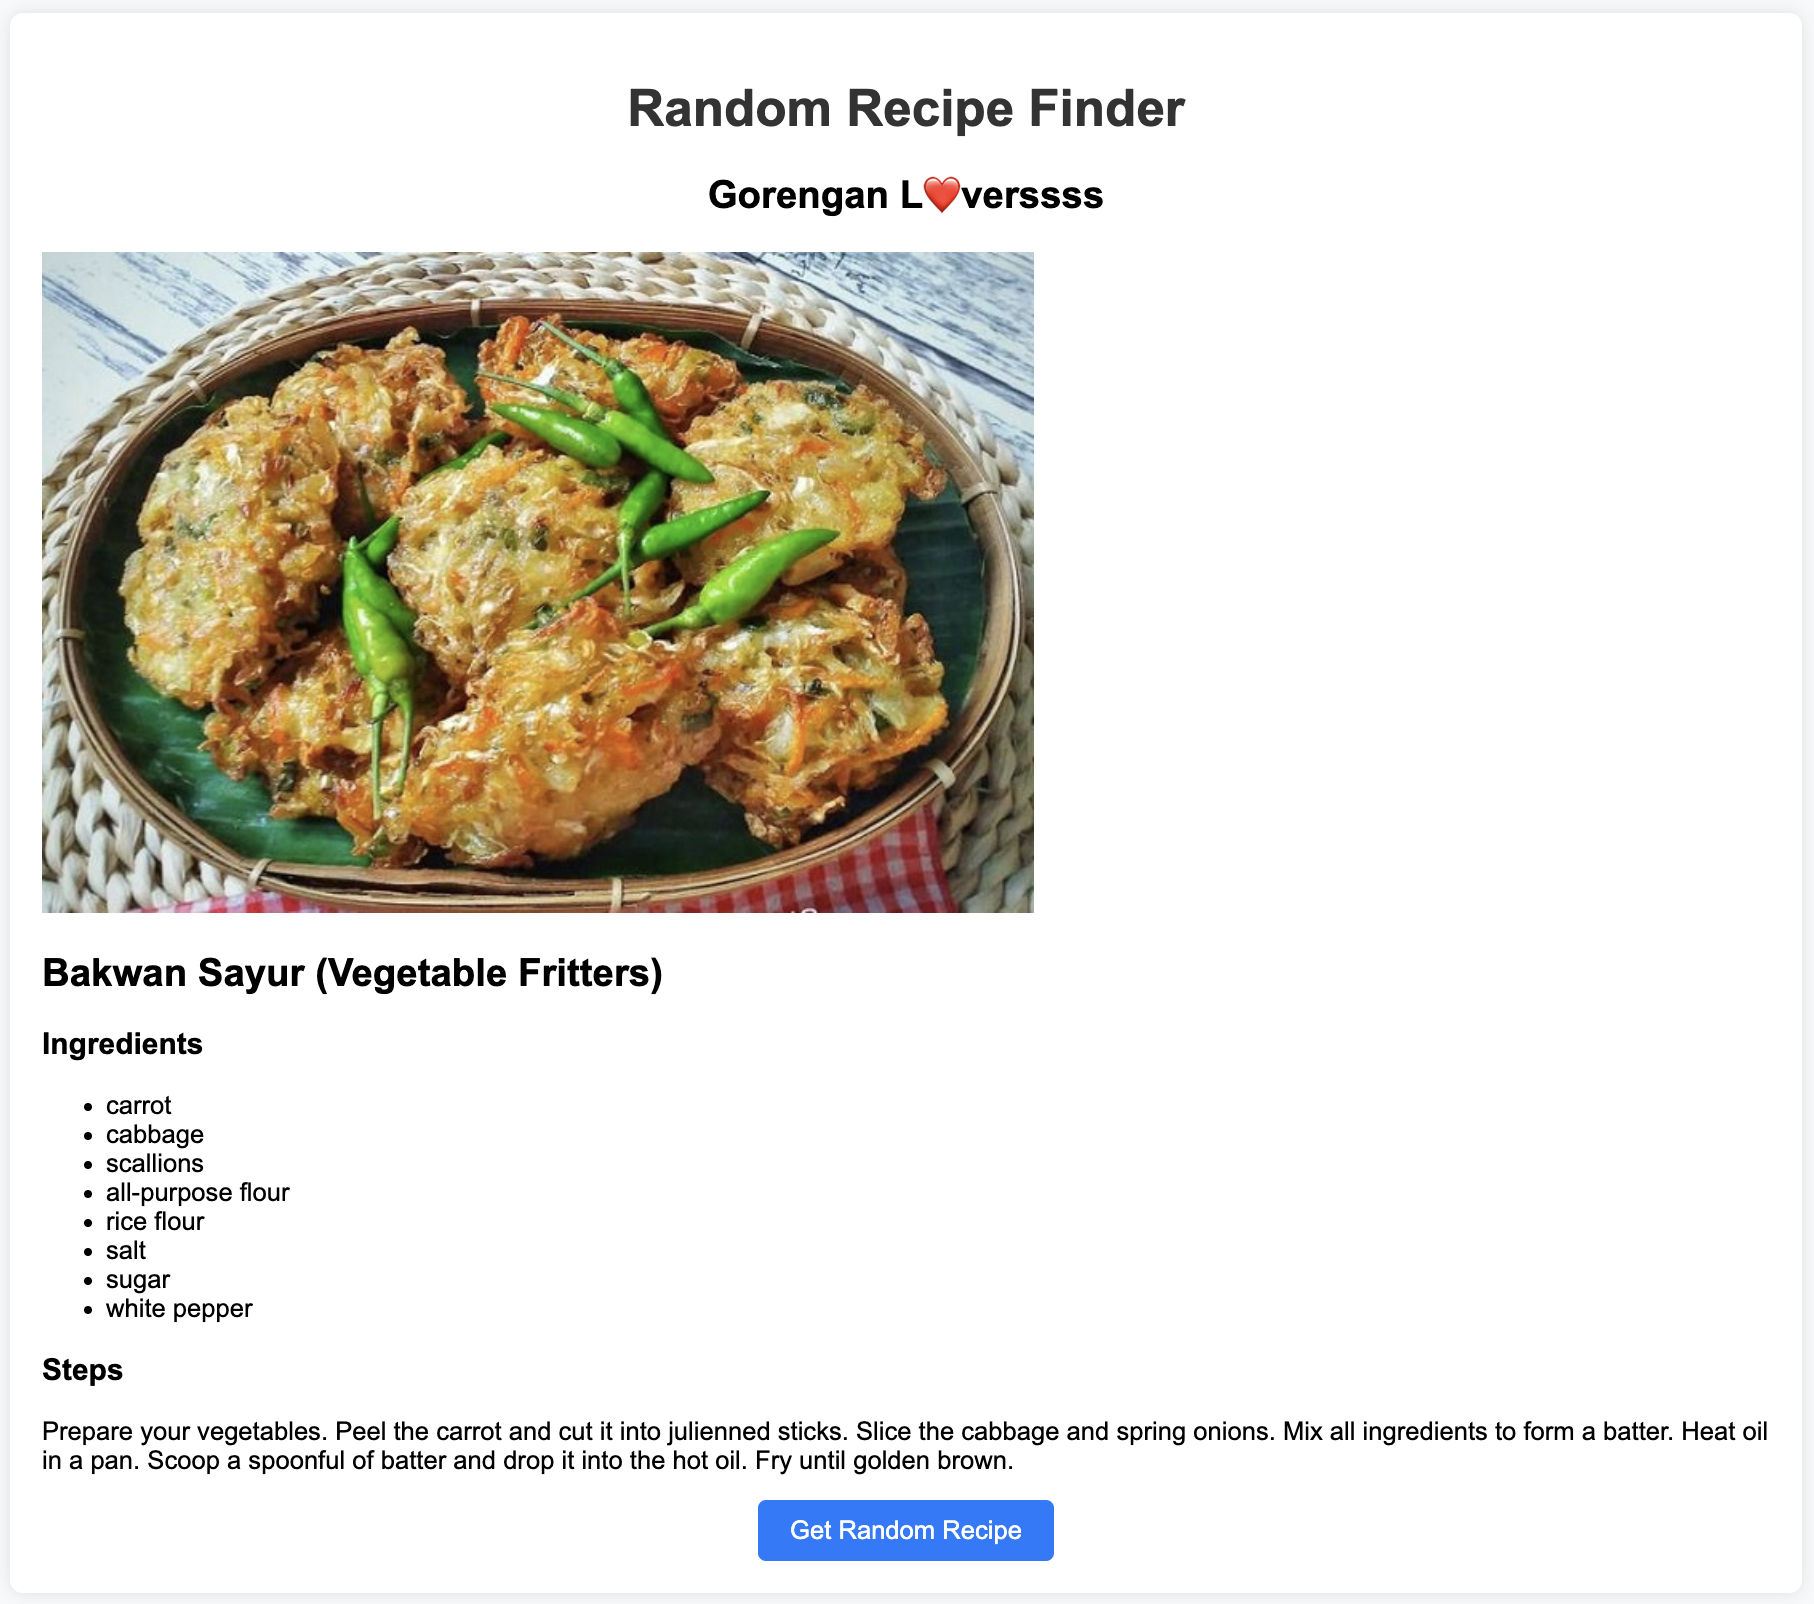
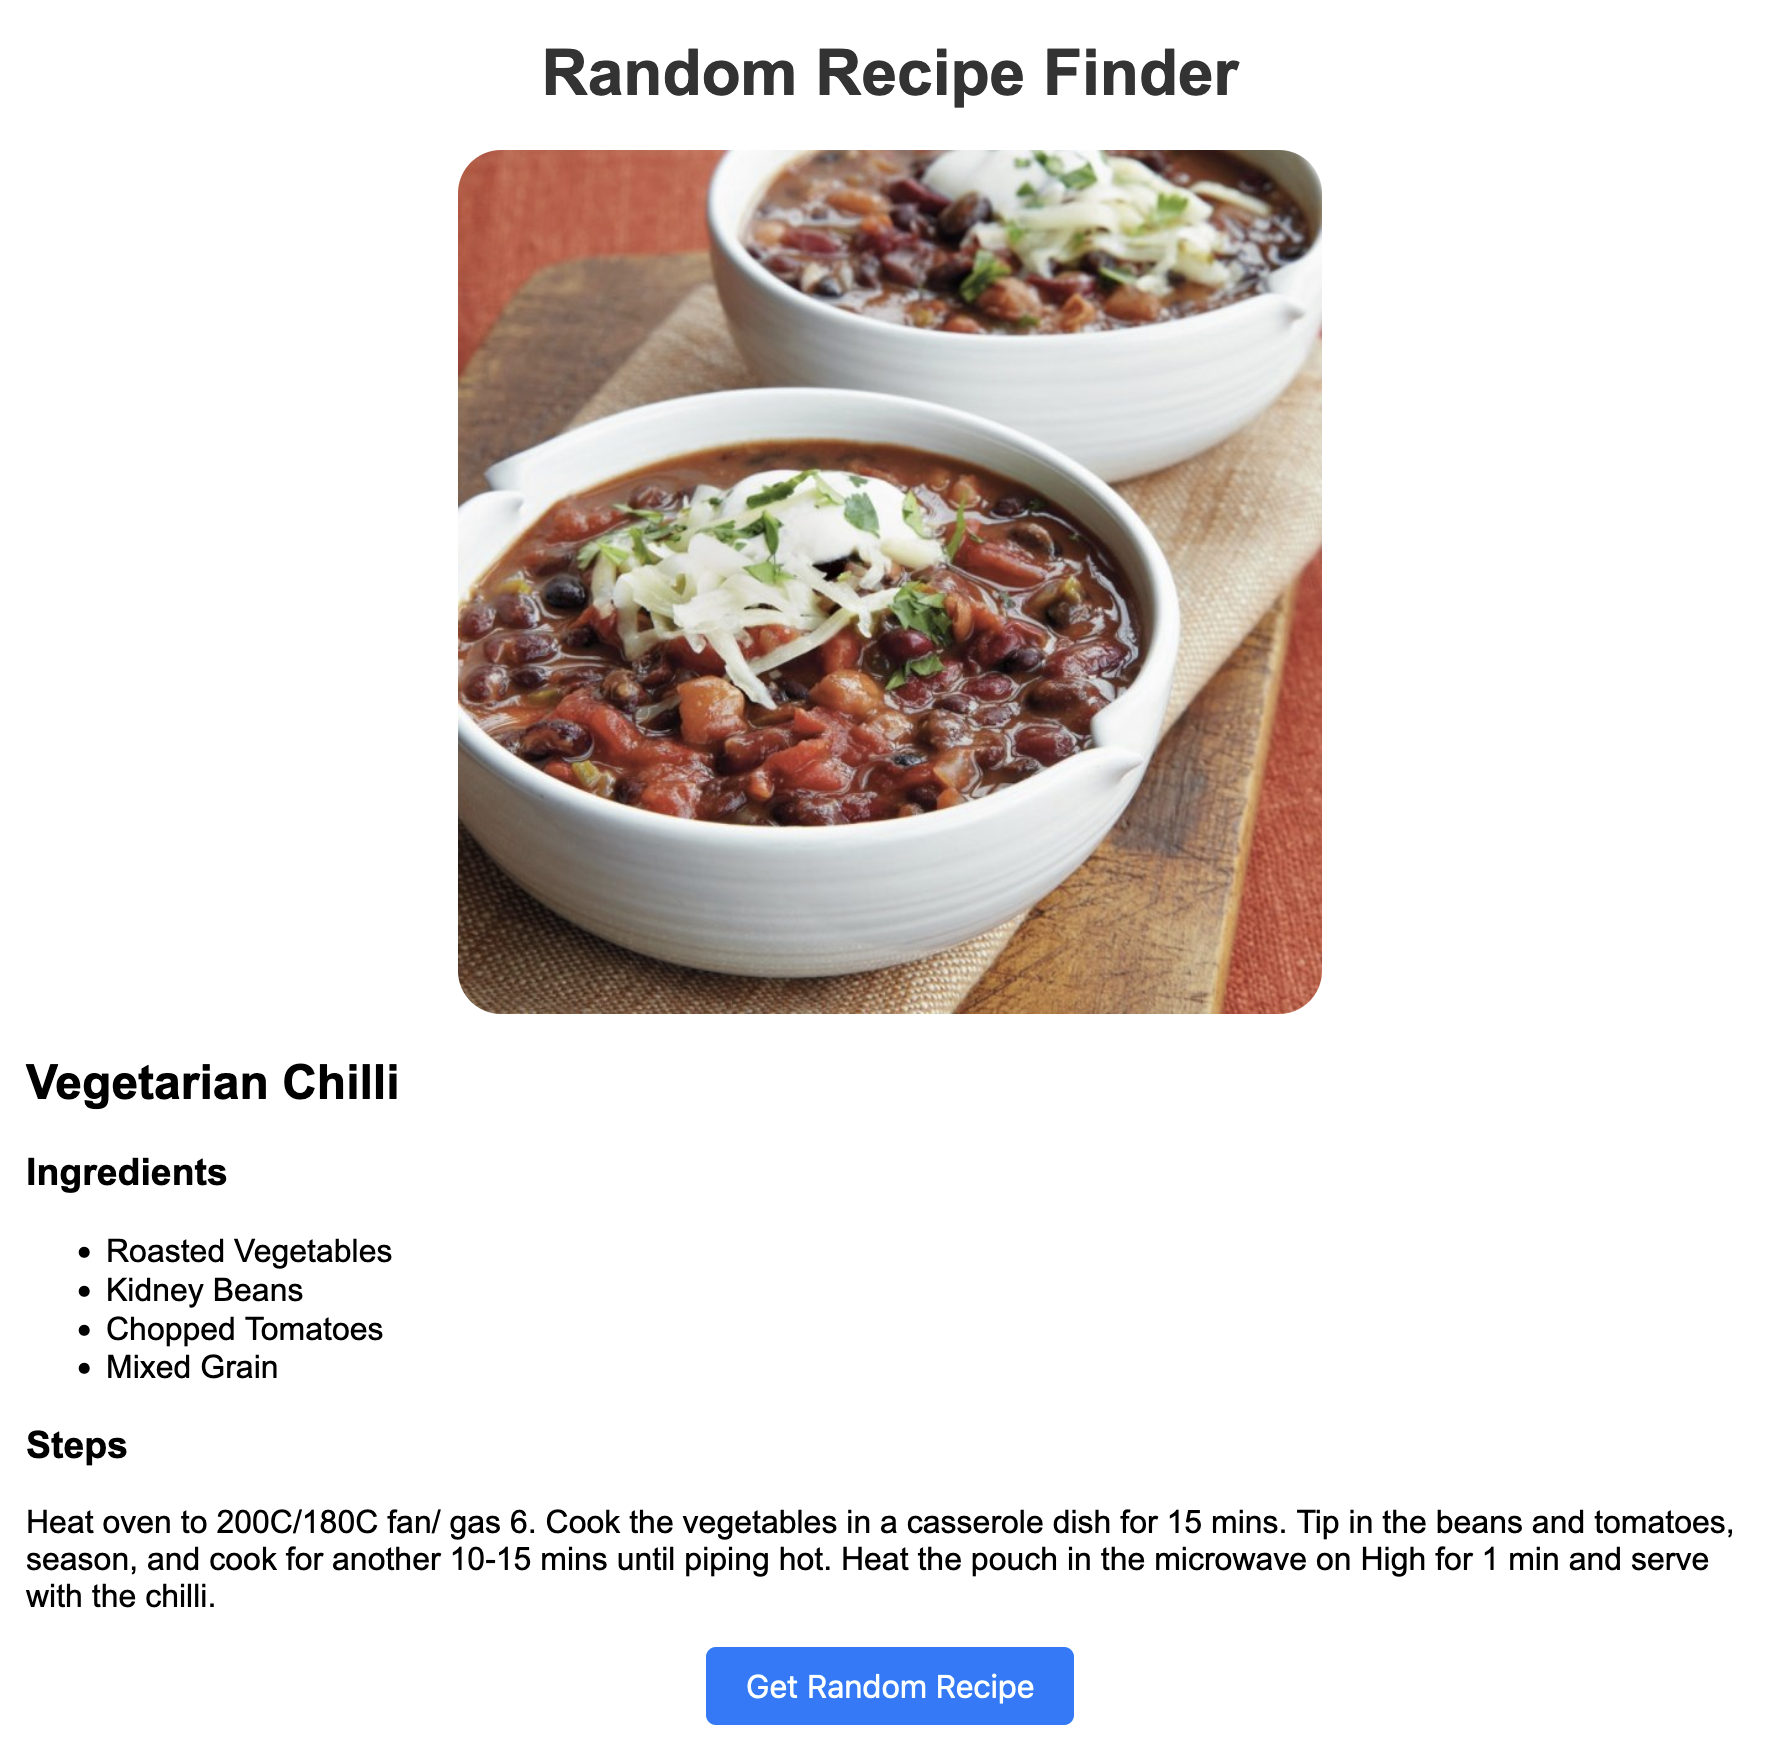
updated main.js with data fetched from TheMealDB

diff --git a/main.js b/main.js
@@ -1,0 +1,32 @@
+// Get the button and recipe container elements
+const getRecipeBtn = document.getElementById('getRecipeBtn');
+const recipeContainer = document.getElementById('recipeContainer');
+
+// Add an event listener to the button
+getRecipeBtn.addEventListener('click', async () => {
+  try {
+    // Fetch a random recipe from TheMealDB API
+    const response = await fetch('https://www.themealdb.com/api/json/v1/1/random.php');
+    const data = await response.json();
+    const randomRecipe = data.meals[0];
+
+    // Create the recipe details
+    const recipeDetails = `
+      <img class="recipe-image" src="${randomRecipe.strMealThumb}">
+      <h2>${randomRecipe.strMeal}</h2>
+      <h3>Ingredients</h3>
+      <ul>${Object.keys(randomRecipe)
+        .filter(key => key.startsWith('strIngredient') && randomRecipe[key])
+        .map(key => `<li>${randomRecipe[key]}</li>`)
+        .join('')}</ul>
+      <h3>Steps</h3>
+      <p>${randomRecipe.strInstructions}</p>
+    `;
+
+    // Display the recipe details
+    recipeContainer.innerHTML = recipeDetails;
+  } catch (error) {
+    console.error('Error fetching the recipe:', error);
+    recipeContainer.innerHTML = '<p>Sorry, something went wrong. Please try again later.</p>';
+  }
+});

diff --git a/index.html b/index.html
@@ -9,14 +9,12 @@
 <body>
   <div class="container">
     <h1>Random Recipe Finder</h1>
-    <h2>Gorengan L❤verssss</h2>
     <div id="recipeContainer" class="recipe-container">
-      <img class="recipe-image" src="" alt="">
-     <!--  Image will be shown here -->
+      <!--  Image will be shown here -->
       <!-- Recipe details will be displayed here -->
     </div>
     <button id="getRecipeBtn">Get Random Recipe</button>
   </div>
-<script src="app.js"></script>
+<script src="main.js"></script>
 </body>
 </html>

diff --git a/style.css b/style.css
@@ -6,7 +6,7 @@ body {
   display: flex;
   justify-content: center;
   align-items: center;
-  height: 100vh;
+  height: 100%;
 }
 
 .container {
@@ -52,8 +52,8 @@ button:hover {
 }
 
 .recipe-image {
-  max-width: 100px;
-  border-radius: 8px;
-  margin-bottom: 10px;
-  margin: 0 auto;
+  max-width: 50%;
+  border-radius: 5%;
+  margin: auto;
+  display: block;
 }

diff --git a/README.md b/README.md
@@ -1,23 +1,18 @@
 # Random Recipe Finder
+The project uses JavaScript to fetch a random recipe from TheMealDB API and dynamically display it on the web page. 
 
-This website [Random Recipe Finder](https://revou-fsse-5.github.io/module-3-sutoro/) provides a simple recipe especially for Gorengan L❤verssss. It's so simple, so much so that anyone without cooking experience would be able to follow the recipe easily.
-
-The "Get Random Recipe" button is kept so that it will generate different recipe in no particular order (random as the name suggests) everytime the user click on it.
+This has been deployed in GitHub -> [Random Recipe Finder](https://revou-fsse-5.github.io/module-3-sutoro/)
 
 
 
 ## Implemented Functionality
-- **Define Recipes**: An array of recipe objects is defined, where each object represents a recipe. Each recipe object has properties like `name`, `image`, `ingredients`, and `steps`.
-- **Get Elements**: The getRecipeBtn and recipeContainer constants are assigned the HTML elements with the IDs `getRecipeBtn` and `recipeContainer`, respectively. These represent the “Get Random Recipe” button and the container where the recipe details will be displayed.
-- **Event Listener**: An event listener is added to the “Get Random Recipe” button. When the button is clicked, a function is executed.
-- **Random Recipe**: Inside the function, a random recipe is selected from the recipes array.
-- **Recipe Details**: The details of the random recipe are then formatted into a string of HTML. This includes an image, the recipe name, a list of ingredients, and the steps to make the recipe.
-- **Display Recipe**: Finally, the HTML string is inserted into the `recipeContainer` element, effectively displaying the details of the random recipe on the webpage.
-
+- **Button and Container**: The code first retrieves the button element with the ID getRecipeBtn and the container element with the ID recipeContainer from the HTML document.
+- **Event Listener**: An event listener is added to the button, which triggers a function when the button is clicked.
+- **Fetching the Recipe**: Inside the function, the code makes an asynchronous request to TheMealDB API using the fetch function. It then awaits the response and parses it as JSON.
+- **Creating Recipe Details**: The retrieved recipe data is used to dynamically create an HTML structure containing the recipe image, name, ingredients list, and instructions.
+- **Displaying the Recipe**: Finally, the generated HTML string is set as the inner HTML of the recipeContainer element, showcasing the recipe on the web page.
+- **Error Handling**: The code includes error handling to gracefully handle potential issues during the API call. If an error occurs, it displays a user-friendly message in the recipe container.
 ## Screenshot
 ![screenshot](screenshot.png)
-
-## Challenges
-Unable to display the image properly.
 
 
